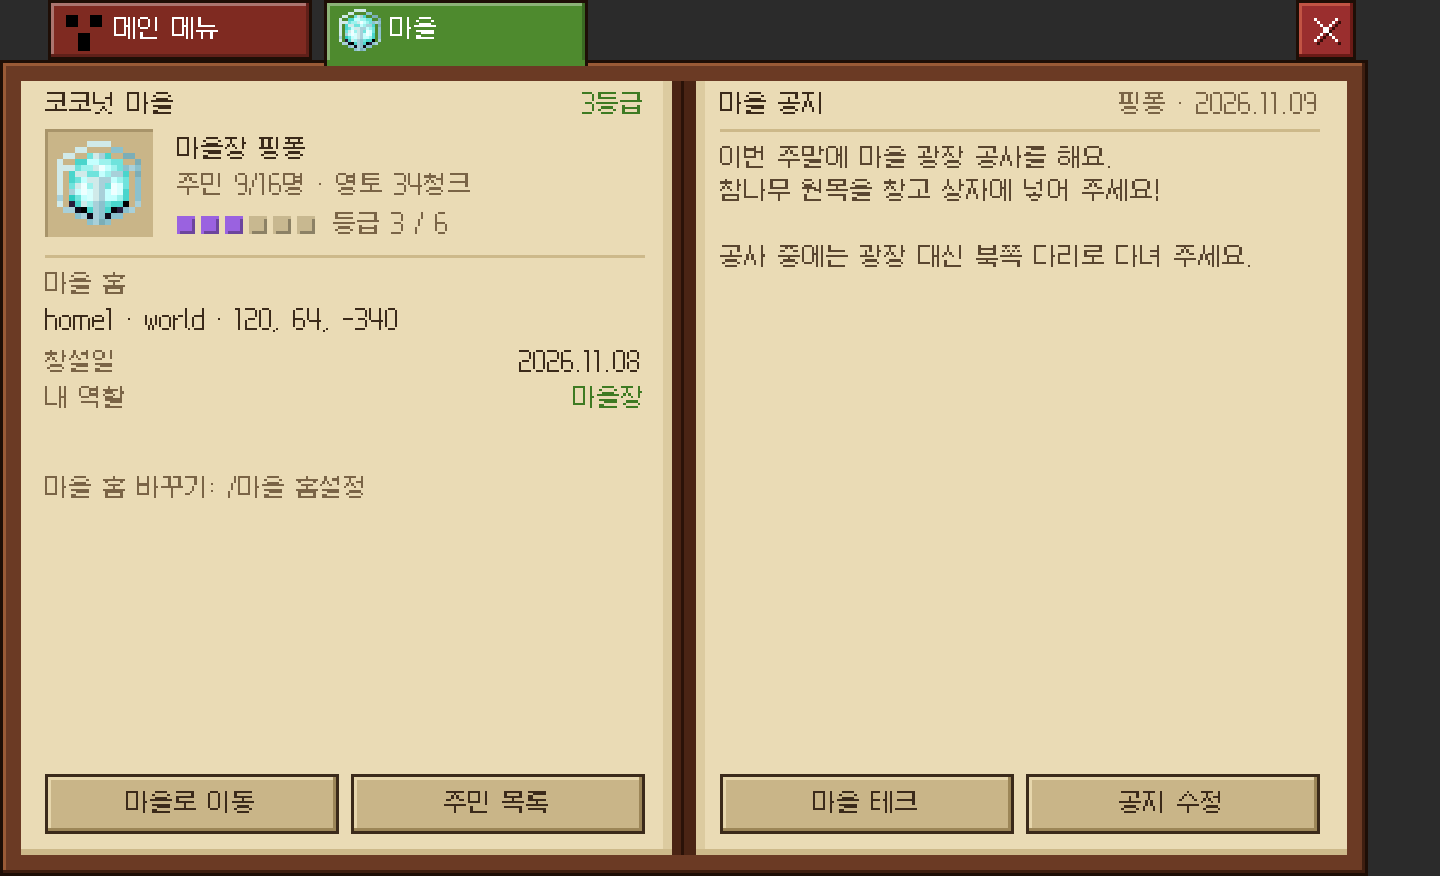
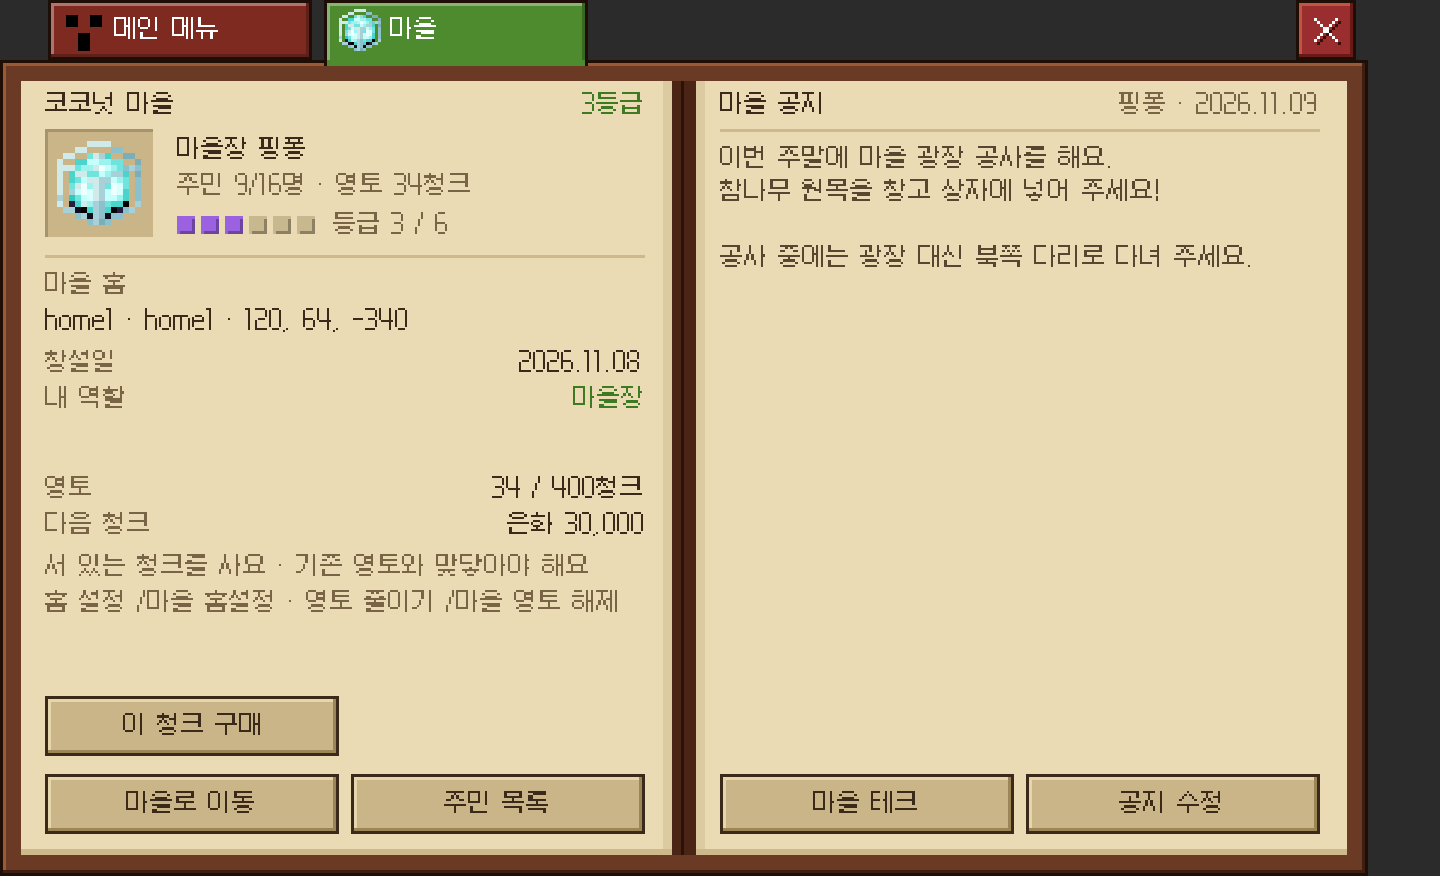
마을 화면에 영토 현황·청크 구매 추가
- 마을 메인: 영토 현재/400청크, 다음 청크 가격(무료·은화·더 넓힐 수 없음)
- 마을장·부마을장: 서 있는 청크 구매 버튼(한 번 더 눌러야 실행)
- 창설 비용 10만 은화 반영, 미리보기·village-prototype.md 갱신

diff --git a/src/main/java/org/crebs/coreui/menu/village/VillageMenu.java b/src/main/java/org/crebs/coreui/menu/village/VillageMenu.java
@@ -116,6 +116,8 @@ public final class VillageMenu {
         void setNotice(Player p, String text, Consumer<Reply> done);
         void setIntro(Player p, String text, Consumer<Reply> done);
         void home(Player p, Consumer<Reply> done);
+        /** Buys the chunk the player stands in (마을장·부마을장). */
+        void claimChunk(Player p, Consumer<Reply> done);
     }
 
     /** What the buttons do; {@link #build} only draws. */
@@ -128,6 +130,7 @@ public final class VillageMenu {
         void invite(Player p);
         void leave(Player p);
         void home(Player p);
+        void claimChunk(Player p);
         void editNotice(Player p, Village v);
         void editIntro(Player p, Member m);
         void toggleOfficer(Player p, Member m);
@@ -194,6 +197,7 @@ public final class VillageMenu {
             public void decline(Player p, Invite i) { backend.decline(p, i.villageId(), after.apply(p, State.NONE)); }
             public void invite(Player p) { askInvite(coreUi, backend, p, overview); }
             public void leave(Player p) { backend.leave(p, after.apply(p, State.NONE)); }
+            public void claimChunk(Player p) { backend.claimChunk(p, after.apply(p, State.MAIN)); }
             public void home(Player p) {
                 coreUi.close(p);
                 backend.home(p, reply -> feedback(p, reply.message(), reply.ok()));
@@ -315,7 +319,7 @@ public final class VillageMenu {
         Member me = v.member(viewer);
         Role role = me == null ? Role.MEMBER : me.role();
         switch (state.view()) {
-            case NONE, MAIN -> main(c, v, role, act);
+            case NONE, MAIN -> main(c, v, role, state, act);
             case MEMBERS -> members(c, v, viewer, role, state, act);
             case ICON -> icons(c, v, state, act);
         }
@@ -383,7 +387,7 @@ public final class VillageMenu {
         else c.button("green", 98, "수락", RIGHT + PAGE - 98, BUTTON_Y, WHITE, p -> act.accept(p, picked));
     }
 
-    private static void main(BookCanvas c, Village v, Role role, Actions act) {
+    private static void main(BookCanvas c, Village v, Role role, State state, Actions act) {
         Member leader = v.owner();
         boolean owner = role == Role.OWNER;
         c.fitted(v.name(), LEFT, TOP, PAGE - 50, INK);
@@ -404,7 +408,21 @@ public final class VillageMenu {
         c.right(v.founded(), LEFT + PAGE, 117, INK);
         c.text("내 역할", LEFT, 129, DIM);
         c.right(role.label, LEFT + PAGE, 129, role == Role.MEMBER ? INK : GREEN);
-        if (owner) c.fitted("마을 홈 바꾸기: /마을 홈설정", LEFT, 159, PAGE, DIM);
+        // Territory (below the book seam): size, next price and, for the 마을장, buying the chunk they stand in.
+        c.text("영토", LEFT, 159, DIM);
+        c.right(v.chunks() + " / " + v.maxChunks() + "청크", LEFT + PAGE, 159, INK);
+        c.text("다음 청크", LEFT, 171, DIM);
+        String next = v.nextChunkCost() < 0 ? "더 넓힐 수 없음" : v.nextChunkCost() == 0 ? "무료" : "은화 " + money(v.nextChunkCost());
+        c.right(next, LEFT + PAGE, 171, v.nextChunkCost() == 0 ? GREEN : INK);
+        if (role.manages()) {
+            c.fitted("서 있는 청크를 사요 · 기존 영토와 맞닿아야 해요", LEFT, 185, PAGE, DIM);
+            c.fitted((owner ? "홈 설정 /마을 홈설정 · " : "") + "영토 줄이기 /마을 영토 해제", LEFT, 197, PAGE, DIM);
+            if (v.nextChunkCost() < 0) c.button("off", 98, "이 청크 구매", LEFT, 232, DIM, null);
+            else if (state.confirm()) {
+                c.button("green", 98, "정말 구매", LEFT, 232, WHITE, act::claimChunk);
+                c.fitted(v.nextChunkCost() == 0 ? "한 번 더 누르면 무료로 사요" : "한 번 더 누르면 " + next + "로 사요", LEFT + 102, 238, PAGE - 102, RED);
+            } else c.button("paper", 98, "이 청크 구매", LEFT, 232, INK, p -> act.go(p, State.MAIN.asking()));
+        }
         if ("-".equals(v.home())) c.button("off", 98, "마을로 이동", LEFT, BUTTON_Y, DIM, null);
         else c.button("paper", 98, "마을로 이동", LEFT, BUTTON_Y, INK, act::home);
         c.button("paper", 98, "주민 목록", LEFT + 102, BUTTON_Y, INK, p -> act.go(p, State.members(null)));

diff --git a/src/main/java/org/crebs/coreui/menu/village/VillageStore.java b/src/main/java/org/crebs/coreui/menu/village/VillageStore.java
@@ -24,8 +24,9 @@ final class VillageStore {
     record Member(UUID id, String name, String account, Role role, String joined, String lastSeen, String intro) { }
 
     /** Immutable snapshot the screens draw. {@code icon} is a vanilla item key, or {@code "vil"} (the hand-drawn village icon). */
-    record Village(long id, String name, int grade, List<Member> members, int maxMembers, long chunks, String home, String founded,
-                   String icon, String notice, String noticeBy, String noticeAt) {
+    /** {@code nextChunkCost}: silver for the next chunk (0 free, -1 when the territory is full of {@code maxChunks}). */
+    record Village(long id, String name, int grade, List<Member> members, int maxMembers, long chunks, int maxChunks, long nextChunkCost,
+                   String home, String founded, String icon, String notice, String noticeBy, String noticeAt) {
         Member owner() {
             return members.stream().filter(m -> m.role() == Role.OWNER).findFirst().orElse(null);
         }
@@ -51,7 +52,7 @@ final class VillageStore {
         if (!member) {
             return new Overview(null, List.of(
                     new Invite(7, "벚꽃 마을", "cherry_sapling", 2, 11, 13, "달빛", "2026.11.13"),
-                    new Invite(9, "바다 마을", "nautilus_shell", 0, 3, 8, "모래", "2026.11.12")), 10_000, 8);
+                    new Invite(9, "바다 마을", "nautilus_shell", 0, 3, 8, "모래", "2026.11.12")), 100_000, 8);
         }
         List<Member> members = List.of(
                 new Member(SAMPLE_OWNER, "핑퐁", "MHF_Steve", Role.OWNER, "2026.11.08", "접속 중", "코코넛 마을을 만든 핑퐁이에요.\n광장 공사 중이니 원목 기부 환영해요!"),
@@ -63,9 +64,9 @@ final class VillageStore {
                 new Member(new UUID(0, 7), "바람", "MHF_Sheep", Role.MEMBER, "2026.11.09", "2시간 전", ""),
                 new Member(new UUID(0, 5), "하늘", "MHF_Chicken", Role.MEMBER, "2026.11.10", "3일 전", ""),
                 new Member(new UUID(0, 8), "초코", "MHF_Creeper", Role.MEMBER, "2026.11.10", "접속 중", "광산 탐험가입니다."));
-        Village village = new Village(1, "코코넛 마을", 3, members, 16, 34, "home1 · world · 120, 64, -340", "2026.11.08", "vil",
+        Village village = new Village(1, "코코넛 마을", 3, members, 16, 34, 400, 30_000, "home1 · home1 · 120, 64, -340", "2026.11.08", "vil",
                 "이번 주말에 마을 광장 공사를 해요.\n참나무 원목을 창고 상자에 넣어 주세요!\n\n공사 중에는 광장 대신 북쪽 다리로 다녀 주세요.",
                 "핑퐁", "2026.11.09");
-        return new Overview(village, List.of(), 10_000, 8);
+        return new Overview(village, List.of(), 100_000, 8);
     }
 }

diff --git a/src/main/java/org/crebs/coreui/menu/village/VillageBridge.java b/src/main/java/org/crebs/coreui/menu/village/VillageBridge.java
@@ -54,7 +54,8 @@ final class VillageBridge implements Backend {
         var members = v.members().stream().map(m -> new Member(m.id(), m.nickname(), m.name(), role(m.role()),
                 day(m.joinedAt()), lastSeen(m.id(), m.lastSeen()), m.intro())).toList();
         String home = v.home() == null ? "-" : v.home().describe();
-        return new Village(v.id(), v.name(), v.grade(), members, v.maxMembers(), v.chunks(), home, day(v.createdAt()), v.icon(),
+        return new Village(v.id(), v.name(), v.grade(), members, v.maxMembers(), v.chunks(), kr.gomsv.kokonutCore.api.village.VillageRules.MAX_CHUNKS,
+                service.chunkCost((int) v.chunks() + 1), home, day(v.createdAt()), v.icon(),
                 v.notice(), v.noticeBy() == null ? "" : v.noticeBy(), day(v.noticeAt()));
     }
 
@@ -100,4 +101,5 @@ final class VillageBridge implements Backend {
     @Override public void setNotice(Player p, String text, Consumer<Reply> done) { service.setNotice(p, text, reply(done)); }
     @Override public void setIntro(Player p, String text, Consumer<Reply> done) { service.setIntro(p, text, reply(done)); }
     @Override public void home(Player p, Consumer<Reply> done) { service.teleportHome(p, reply(done)); }
+    @Override public void claimChunk(Player p, Consumer<Reply> done) { service.claimChunk(p, reply(done)); }
 }

diff --git a/docs/village-prototype.md b/docs/village-prototype.md
@@ -20,8 +20,8 @@
 ## 규칙 (Core `VillageRules`)
 
 - 마을: 이름, **등급 0~6**, 마을장, 생성일, 홈(서버·월드·좌표), 아이콘, 공지, 기술 포인트.
-- 역할: `OWNER`(마을장) 전부 / `OFFICER`(부마을장) 초대·주민 추방·공지 / `MEMBER`(주민) 자기 소개글·탈퇴. 한 플레이어는 한 마을에만 속합니다.
-- 창설 비용 은화 10,000, 최대 인원은 등급별 8·10·13·16·20·25·30명, 초대는 3일 유효.
+- 역할: `OWNER`(마을장) 전부 / `OFFICER`(부마을장) 초대·주민 추방·공지·영토 구매/해제 / `MEMBER`(주민) 자기 소개글·탈퇴. 한 플레이어는 한 마을에만 속합니다.
+- 창설 비용 은화 100,000, 최대 인원은 등급별 8·10·13·16·20·25·30명, 초대는 3일 유효.
 
 ## 화면
 
@@ -30,6 +30,8 @@
   - 오른쪽: 받은 초대 목록(최대 6개). 고른 초대의 아이콘·인원·초대한 사람·날짜와 `거절` / `수락`. 인원이 가득 찬 마을은 수락이 꺼집니다.
 - **마을 메인**:
   - 왼쪽: 이름·등급, 32px 아이콘 칸(마을장이 누르면 아이콘 고르기), 마을장, 주민 `현재/최대`·영토, 등급 핍, 마을 홈, 창설일, 내 역할.
+    영토 `현재/400청크`와 다음 청크 가격(무료·은화·더 넓힐 수 없음).
+    마을장·부마을장에게는 `이 청크 구매`(서 있는 청크, 한 번 더 눌러야 실행)와 영토 줄이기(마을장은 홈 설정도) 명령 안내가 보입니다.
     버튼은 `마을로 이동`(홈이 없으면 꺼짐, 누르면 화면을 닫고 이동) / `주민 목록`.
   - 오른쪽: 마을 공지(작성자·날짜, 자동 줄바꿈, 16줄). `마을 테크`(추후) / `공지 수정`(마을장·부마을장, 여러 줄 12줄·400자, 비우면 삭제).
 - **주민 목록**:
@@ -48,6 +50,6 @@
 
 ## 아직 없는 것
 
-- 마을 테크 화면, 영토(청크) 구매·보호, 등급 승급 조건.
+- 마을 테크 화면, 등급 승급 조건, 영토 지도(어느 청크가 영토인지 화면에서 보기).
 - 위임·해산·홈 설정은 명령으로만 합니다(`/마을 위임 <닉네임> 확인`, `/마을 해산 확인`, `/마을 홈설정`).
 - "접속 중"은 같은 서버에 있는 주민만 표시합니다. 다른 서버 주민은 최근 접속 시각(접속·퇴장 때 기록)으로 나옵니다.
